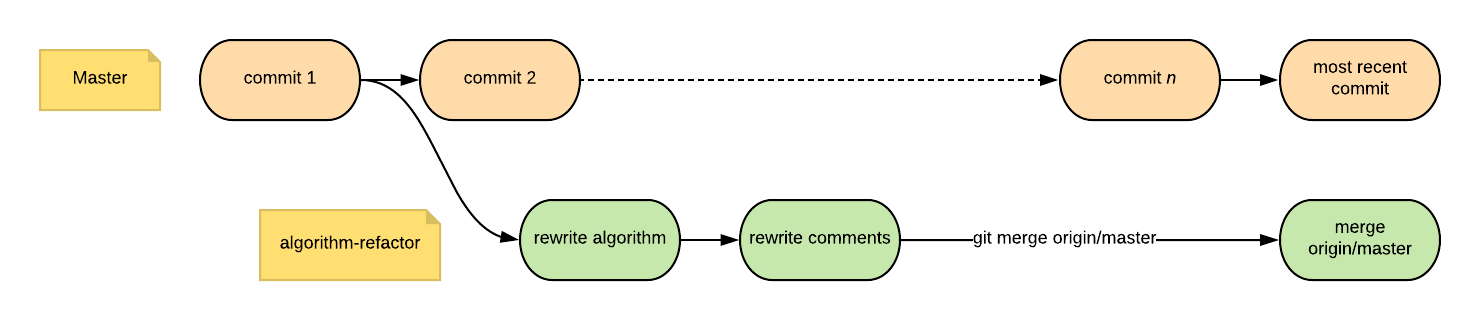
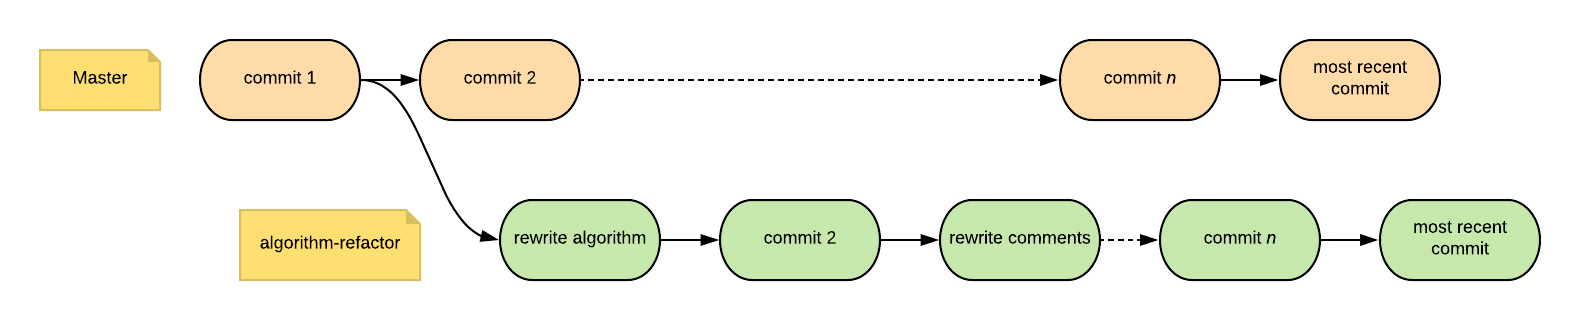
working on rebase

diff --git a/README.md b/README.md
@@ -259,18 +259,41 @@ The two commands git gives us to update branches `git rebase` and `git merge`. B
 Start by cloning the repository:
 
 ```sh
-TODO: CLONE REPO
+git clone git@github.com:dgoldstein1/git-rebase-merge.git
 ```
 
 #### Merge
 
-According to `git --help`, the `git merge` "Join[s] two or more development histories together." In terms of our scenario, merging master into our branch would make a new commit with all the changes necessary to incorporate changes from master so that merging into master will be clean (i.e. three way merge):
+According to `git --help`, the `git merge` "Join[s] two or more development histories together." In terms of our scenario, merging master into our branch would make a new commit with all the changes necessary to incorporate changes from master so that merging into master will be clean:
 
 ![stale-branch-git-tree](images/stale-branch-mergin.png)
 
+Let's try this locally. Let's first look at our git tree. Open up the tree for master and algorithm refactor in two separate terminals so you can compare them side by side (`git log master` and `git log algorithm-refactor`). As you can see, `algorithm-refactor` has fewer commits and the two branches have diverged. This means that at some point there was a common commit between these branches, but since then both branches have gone in different directions. The most recent commit both branches share is `commit 1` *To check youngest ancestor you can also run `git merge-base algorithm-refactor master` which returns the commit hash*.
 
+Let's try and merge, with the expectation that we will have conflicts since these branches have diverged.
+
+```sh
+$ git checkout algorithm-refactor
+Auto-merging problem_1.c
+CONFLICT (content): Merge conflict in problem_1.c
+```
+
+Fix the conflicts in `problem_1.c` anyway you like. Don't worry about getting the code to run or anything, just poke around and remove the conflict messages (e.g. "<<<<<<<<" and ">>>>>>>>". If you want to make sure the code runs, make some edits then run `make`. The answer should be 233168. Once you're done, commit your results and continue the merge
+
+```sh
+$ git add problem_1.c
+$ git merge --continue
+[algorithm-refactor 115ccef] Merge branch 'master' into algorithm-refactor
+```
+
+We're done! Run `git log alorithm-refactor` and git log origin/algorithm-refactor` side by side to see the changes we made.
+- git has replayed `master` on top of `algorithm-refactor` starting with the parent of their youngest shared ancestor `commit 1`. Note that by default github and gitlab usually squash your commits automatically before merging.
+- notice that `commit 2` was appplied twice and has different commit hashes. The first one `367e909a2112725a98bad1eb1c379207eb185d96` is directly from master. The second one is a newly created commit. This is done to preserve the chronological history but also preserve the integrity of the commits on `master`. If you look at the timestamps between commit 1, rewrite algorithm, commit 2, and rewrite comments, you can see that they all go 'forward' in time. 
+- notice there is a new commit at the top `Merge branch 'master' into algorithm-refactor`. Why would you need an additional commit ontop of everything? This is where `git merge` excels. If you run `git diff HEAD~1` this will show you the changes in this new merge commit. As you can see, it's the changes we implemented to resolve merge conflicts. You can also see there is a special message `Merge: f6d88ce 27b1011` below the commit sha. This tells git how to relate these two branches. `f6d88ce` is the sha for origin/algorithim-refactor and `27b1011` is the sha for master. This way, when you end up making your pull request to merge algorithm-refactor into master, git will know automatically that it doesn't have to go further than this commit. In fact, if you run `git show $(git merge-base algorithim-refactor master)` again you will find the merge commit is the youngest ancestor.
 
 #### Rebase
+
+phew! A lot goes on behind the `git merge` command! In comparison `git rebase` is simpler but perhaps less elegant. Instead of fancy git SHA parsing and making intermediate commits, `git rebase` "Reappl[ies] commits on top of another base tip ". For our scenario, that means taking all our commits and dropping them on top of `master` like so:
 
 ## Authors
 
